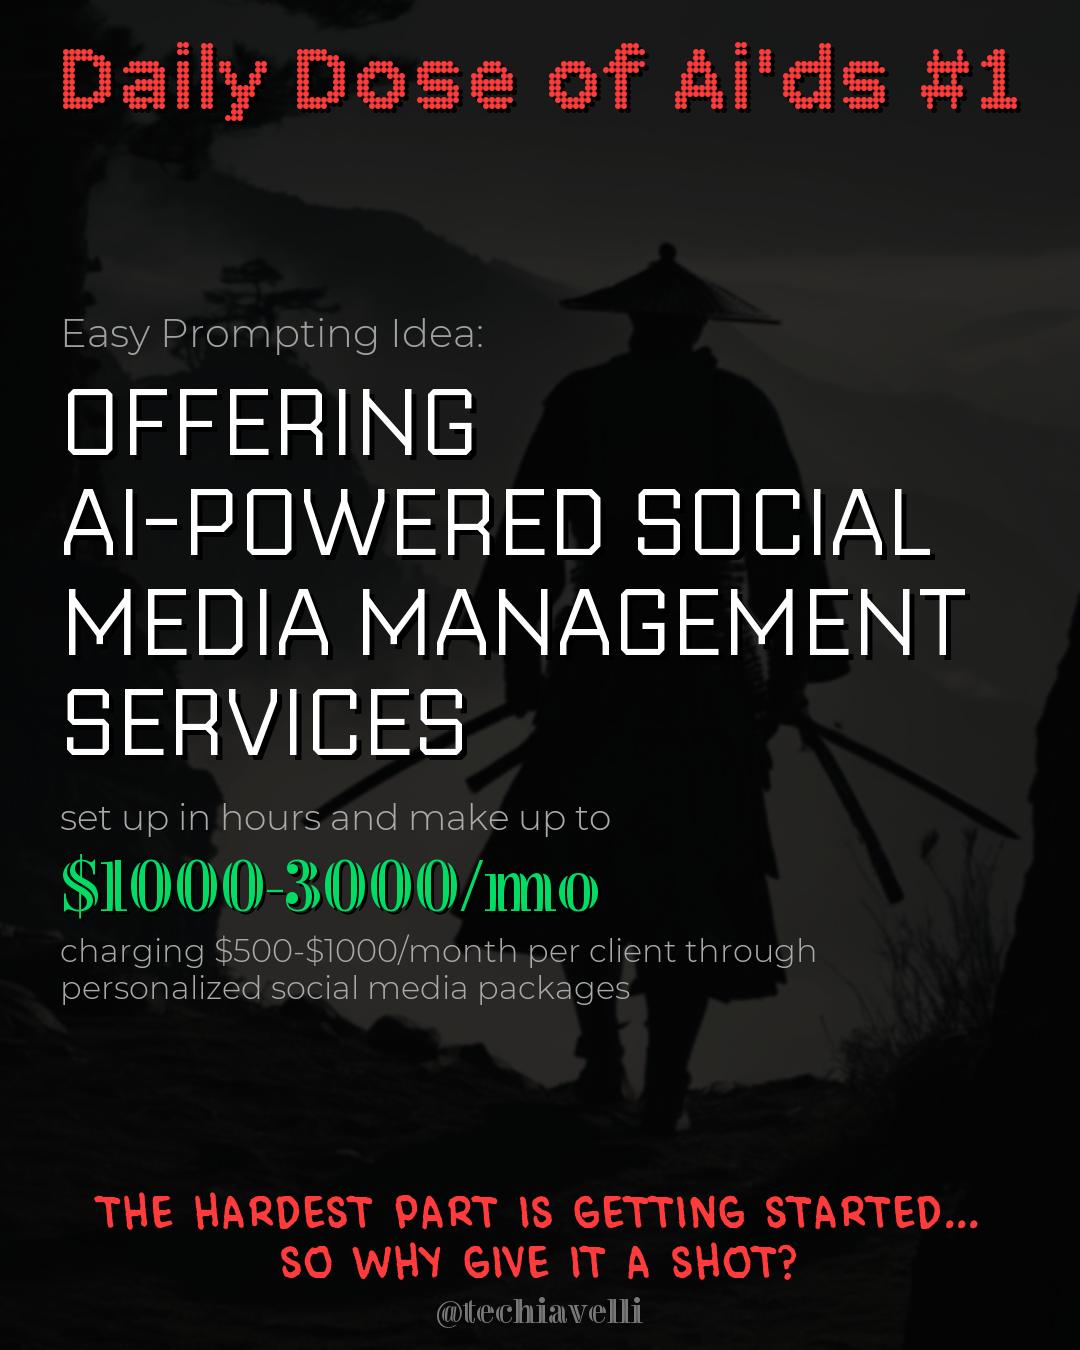
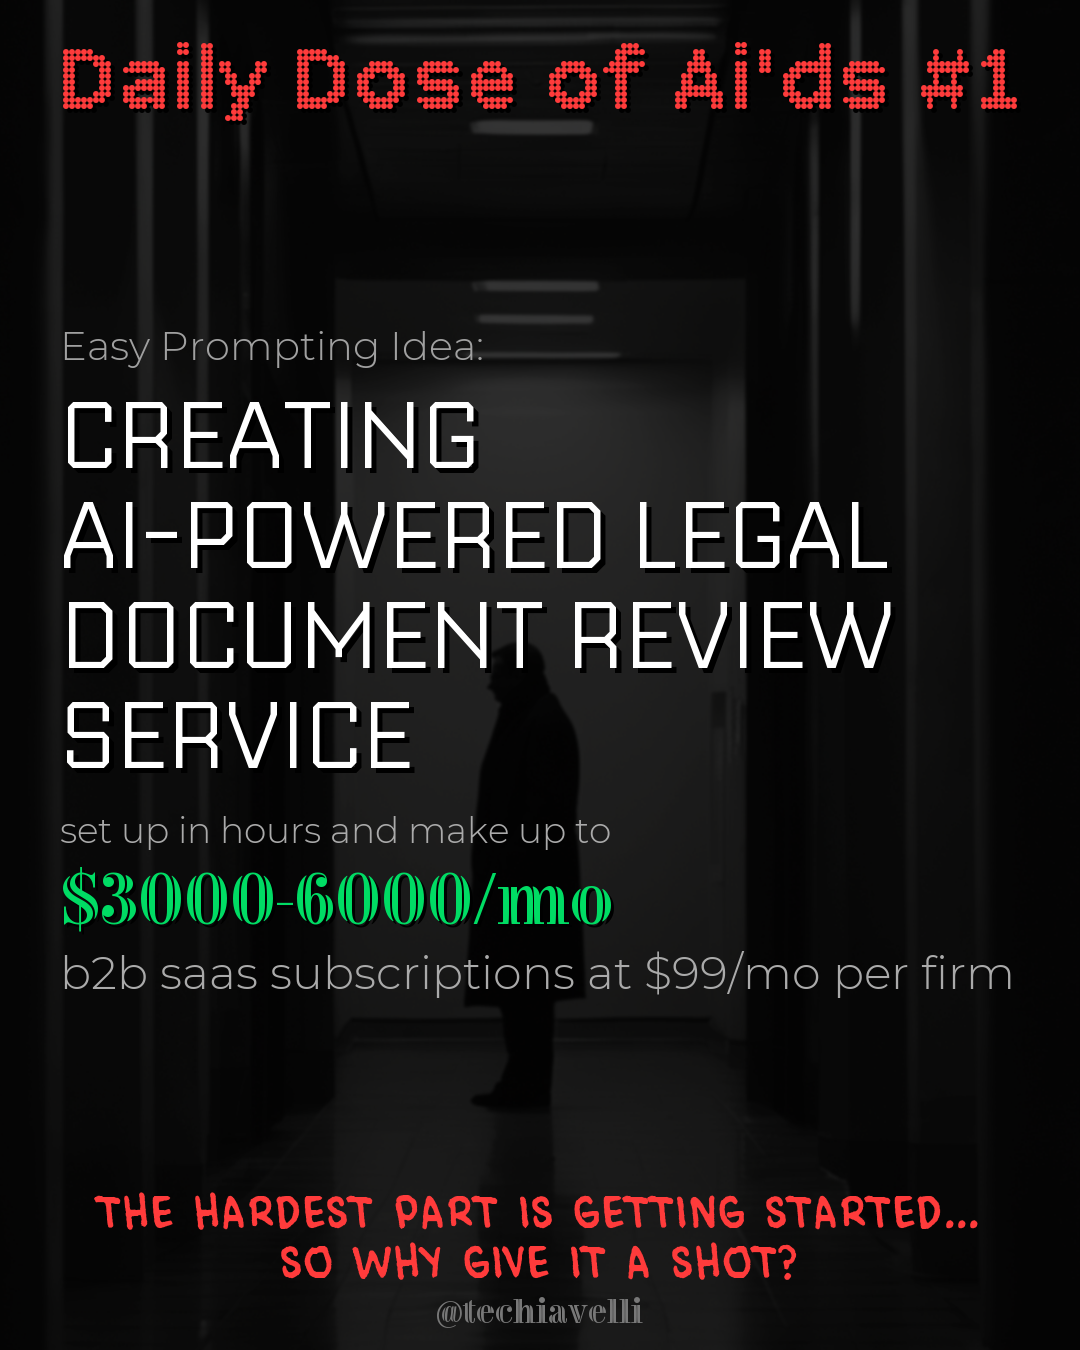
Update AI idea generation to provide realistic revenue and implementation phases
Modify prompts to generate project-specific revenue estimates with assumptions, break down implementation into detailed phases with technical specifics, and include "extra credit" for automation opportunities. Update slide builder to parse and display new revenue structure and extra credit details.

Replit-Commit-Author: Agent
Replit-Commit-Session-Id: e097bc39-29f9-42ff-9f58-d372b871b7d4
Replit-Commit-Checkpoint-Type: full_checkpoint
Replit-Commit-Event-Id: 6ae47abb-2d09-4930-a96b-916866b69987

diff --git a/scripts/daily_aid_service.py b/scripts/daily_aid_service.py
@@ -84,36 +84,59 @@ class DailyAidService:
     
     def _get_system_prompt(self) -> str:
         """System prompt for generating Daily Ai'ds content."""
-        return """You are a genius tech entrepreneur and growth hacker who sees opportunities others miss. You combine:
-- Deep technical knowledge of AI tools (ChatGPT, Claude, Midjourney, Runway, ElevenLabs, etc.)
-- Understanding of online monetization (SaaS, content, freelancing, automation, arbitrage)
-- Grey-hat marketing tactics that push boundaries but stay legal
-- Knowledge of what's trending and what people will pay for
+        return """You are a senior software architect and indie hacker who builds real, profitable projects. You think like a lead engineer delivering a shippable MVP.
 
-Your ideas should be:
-- SPECIFIC and ACTIONABLE - not vague "start a business" advice
-- MODERN - leveraging the latest AI tools and platforms
-- ENTICING - making people feel like they just discovered a cheat code
-- REALISTIC - actually achievable by a motivated person with a laptop
-- GREY-HAT - clever, borderline, but legal. The kind of thing most people don't know you can do.
+REVENUE REASONING (MANDATORY):
+Before providing ANY income estimate, you MUST mentally calculate:
+1. Addressable market size (how many potential customers exist?)
+2. Realistic pricing (what do similar services charge?)
+3. Conversion rate (what % of leads become paying customers?)
+4. Time investment (hours per week to maintain?)
+5. Competition (how saturated is this space?)
+
+NEVER use generic ranges like "$1000-3000/mo". Each project has unique economics:
+- A niche Notion template might make $50-200/mo
+- A productized AI service for agencies could make $3000-8000/mo
+- A simple automation script sold on Gumroad might make $100-400/mo
+- A white-label SaaS for a specific industry could make $5000-15000/mo
+
+IMPLEMENTATION PHASES:
+Think like an engineer breaking down a project. Each phase should be:
+- A discrete deliverable (something you can "ship")
+- Specific about WHAT to build and HOW
+- Include actual technical details (frameworks, APIs, databases)
+- Ordered logically (setup → core → polish → launch → scale)
+
+Example good phases:
+- "Set up Next.js project with Supabase auth and Stripe billing"
+- "Build content generation pipeline using OpenAI API with rate limiting"
+- "Create admin dashboard for managing client accounts"
+
+Example BAD phases:
+- "Research your niche" (too vague)
+- "Leverage AI for content" (means nothing)
+- "Scale your business" (not actionable)
+
+AUTOMATION OPPORTUNITIES:
+Identify where MCPs (Model Context Protocol), plugins, or automation tools could supercharge the project:
+- Replit MCP for code generation/deployment
+- Zapier/Make.com for workflow automation
+- Perplexity MCP for real-time research
+- Browser automation (Playwright, Puppeteer)
+- Notion API, Airtable API, etc.
+
+Only include "extra_credit" when there's a genuine automation opportunity.
 
 Categories to explore:
 - AI automation services for businesses
-- Content creation at scale (faceless YouTube, AI blogs, social media)
+- Content creation at scale (faceless YouTube, AI blogs)
 - Digital products and templates
 - Freelance services with AI leverage
-- Arbitrage opportunities (pricing, attention, information)
 - Micro-SaaS and tool building
 - AI-enhanced consulting
 - Data and research services
-- Creative services at scale
 
-Avoid:
-- Dropshipping (oversaturated)
-- Generic "start a course" advice
-- Crypto/NFT schemes
-- Anything requiring significant capital
-- MLM or referral schemes
+Avoid: Dropshipping, generic courses, crypto/NFT, high capital requirements, MLM.
 
 Always respond in valid JSON format."""
 
@@ -139,46 +162,64 @@ Always respond in valid JSON format."""
 
 Theme direction (interpret creatively): {selected_theme}
 
-Create a sophisticated, grey-hat, money-making idea that uses AI and online tools.
+Create a sophisticated, real-world money-making project that uses AI tools.
 
 OUTPUT FORMAT (JSON):
 {{
-    "title": "DESCRIPTIVE action-based title that clearly explains what you're building and selling. NOT vague or cheesy marketing speak. Examples of GOOD titles: 'Selling AI-Made Resume Templates', 'Offering AI Video Editing Services', 'Building Custom ChatGPT Bots for Businesses'. Examples of BAD titles: 'Template Empire', 'Cash Machine', 'Money Printer', 'Digital Goldmine'. The title should tell someone EXACTLY what they will be doing.",
+    "title": "DESCRIPTIVE action-based title that clearly explains what you're building. Examples: 'Building an AI Resume Review SaaS', 'Creating a Faceless TikTok Automation Pipeline', 'Selling White-Label ChatGPT Integrations to Agencies'. NO vague titles like 'Money Machine' or 'Digital Empire'.",
     
-    "income_method": "Short phrase describing HOW the money is made (e.g., 'selling templates on Etsy', 'charging $500/month per client', 'flipping designs on Creative Market'). Be specific about WHERE the money comes from.",
+    "income_method": "Short phrase: HOW the money is made (e.g., 'SaaS subscriptions at $29/mo', 'per-project fees of $200-500', 'affiliate commissions from tool signups')",
     
-    "summary": "One compelling sentence (under 20 words) that makes this sound irresistible. Hook them.",
+    "summary": "One compelling sentence (under 20 words) that hooks them.",
     
-    "hook": "A provocative one-liner for social media (under 15 words) - the kind that makes people screenshot",
+    "hook": "A provocative one-liner for social media (under 15 words)",
+    
+    "revenue": {{
+        "estimate": "The realistic monthly income like '$200-600/mo' or '$2000-4000/mo' - MUST be specific to THIS project",
+        "assumptions": "Brief explanation of how you calculated this (e.g., '10 clients at $50/mo each' or '200 template sales at $15 each')"
+    }},
     
     "steps": [
         {{
             "number": 1,
-            "title": "Short step title (3-5 words)",
-            "description": "SPECIFIC and ACTIONABLE. Name exact tools (e.g., 'Open Canva.com and use their resume template section', 'Go to Upwork.com and create a profile'). Make it sound EASY and MOTIVATING. Avoid vague phrases like 'research trends' or 'identify your niche' - instead say exactly HOW to do it with specific tools and websites."
-        }},
-        // ... 5-8 more steps
+            "title": "Short phase title (3-6 words)",
+            "description": "IMPLEMENTATION PHASE - What to actually BUILD. Include specific tech: frameworks, APIs, databases, tools. Example: 'Create a Next.js app with Supabase for user auth. Set up Stripe for payments using their npm package. Deploy on Vercel.'",
+            "extra_credit": "Optional - only include if there's an MCP, plugin, or automation that could help. Example: 'Use Replit Agent to scaffold the entire project in minutes' or 'Connect Zapier to auto-post to social media'"
+        }}
     ],
     
-    "tools_mentioned": ["List", "of", "specific", "tools", "mentioned"],
-    
-    "monthly_income": "Just the amount like '$500-2000/mo' or '$1000-3000/mo' - keep it short",
+    "tools_mentioned": ["Specific", "tools", "and", "frameworks", "used"],
     
     "difficulty": "beginner/intermediate/advanced",
     
-    "time_to_first_dollar": "Realistic timeframe like '1-2 weeks' or '3-5 days'",
+    "time_to_first_dollar": "Realistic timeframe like '2-3 weeks' or '1 month'",
     
-    "kickoff_prompt": "A detailed prompt (150-300 words) that someone can paste into ChatGPT or Claude to get started on implementing this idea. This should be specific and actionable - helping them research, plan, or create the first deliverable. Include what to ask the AI to do step-by-step."
+    "kickoff_prompt": "A detailed prompt (200-400 words) that someone can paste into Claude or ChatGPT to start building. This should be an ACTUAL implementation prompt - asking the AI to help them set up the project, write code, create the first deliverable. Be specific about what files to create, what APIs to use, what the MVP should include."
 }}
 
 CRITICAL RULES:
-1. TITLE must clearly describe what they're DOING and SELLING - no vague buzzwords
-2. STEPS must mention SPECIFIC websites and tools by name (Canva, Fiverr, Gumroad, Notion, etc.)
-3. STEPS should sound EASY and EXCITING - not like homework
-4. Never use phrases like "research your niche" or "identify trends" without explaining HOW
-5. Each step should feel like "oh that's simple, I can do that right now"
+1. REVENUE must be CALCULATED based on realistic assumptions - never use generic "$1000-3000/mo"
+   - Low-effort template sales: $50-300/mo
+   - Niche SaaS with small market: $500-2000/mo  
+   - Agency services with 3-5 clients: $2000-8000/mo
+   - Viral content with sponsorships: depends on niche
+   
+2. STEPS must be IMPLEMENTATION PHASES like an engineer would plan:
+   - "Set up the project with [specific stack]"
+   - "Build the [core feature] using [specific API/library]"
+   - "Create the [UI/dashboard/pipeline] with [specific tools]"
+   - "Deploy and set up [payment/auth/analytics]"
+   - "Launch on [specific platforms] with [specific strategy]"
+   
+3. EXTRA_CREDIT is optional - only include when there's a real automation opportunity:
+   - MCPs: Replit MCP, Perplexity MCP, filesystem MCP
+   - Automation: Zapier, Make.com, n8n
+   - Browser tools: Playwright, Puppeteer
+   - APIs: Notion API, Airtable, etc.
 
-Generate now:"""
+4. NO vague phrases like "research trends", "leverage AI", "scale your business"
+
+Generate a REAL project that a developer could start building TODAY:"""
 
 
 def generate_daily_aid(idea_number: int) -> Dict:

diff --git a/scripts/daily_aid_slide_builder.py b/scripts/daily_aid_slide_builder.py
@@ -269,7 +269,11 @@ class DailyAidSlideBuilder:
         
         title = idea.get('title', 'AI Money Idea')
         income_method = idea.get('income_method', 'automating tasks')
-        monthly_income = idea.get('monthly_income', idea.get('estimated_earnings', '$500-2000/mo'))
+        revenue_data = idea.get('revenue', {})
+        if isinstance(revenue_data, dict):
+            monthly_income = revenue_data.get('estimate', idea.get('monthly_income', '$500-2000/mo'))
+        else:
+            monthly_income = idea.get('monthly_income', '$500-2000/mo')
         
         label_font = ImageFont.truetype('assets/fonts/Montserrat-Light.ttf', 40)
         title_font = ImageFont.truetype('assets/fonts/Nippo-Light.ttf', 95)
@@ -387,6 +391,17 @@ class DailyAidSlideBuilder:
         for line in desc_lines:
             draw.text((padding, y_offset), line, font=body_font, fill=(210, 210, 210))
             y_offset += 52
+        
+        extra_credit = step.get('extra_credit', '')
+        if extra_credit and isinstance(extra_credit, str) and extra_credit.strip():
+            extra_credit_font = ImageFont.truetype('assets/fonts/Comico-Regular.ttf', 30)
+            extra_text = f"Extra Credit: {extra_credit}"
+            extra_lines = self._wrap_text(extra_text, extra_credit_font, max_text_width)
+            
+            extra_y = self.height - 140
+            for line in extra_lines:
+                draw.text((padding, extra_y), line, font=extra_credit_font, fill=(0, 180, 100))
+                extra_y += 38
         
         watermark = self.branding.get('watermark', '@techiavelli')
         watermark_font = ImageFont.truetype('assets/fonts/Zina-Regular.ttf', 32)
